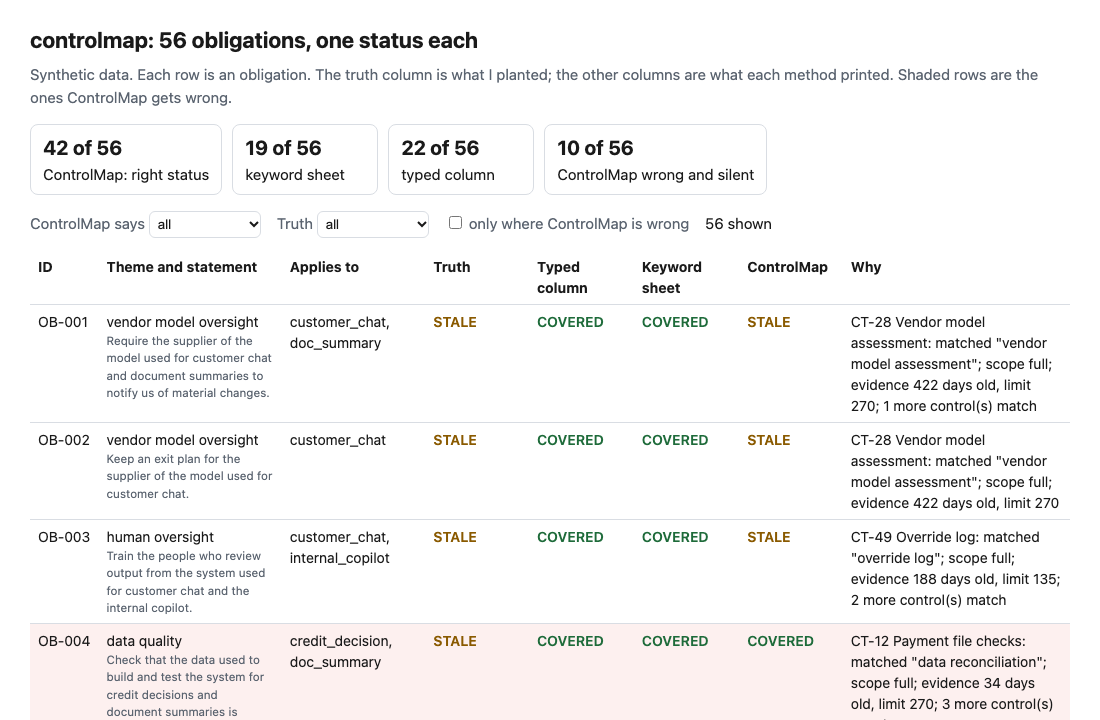
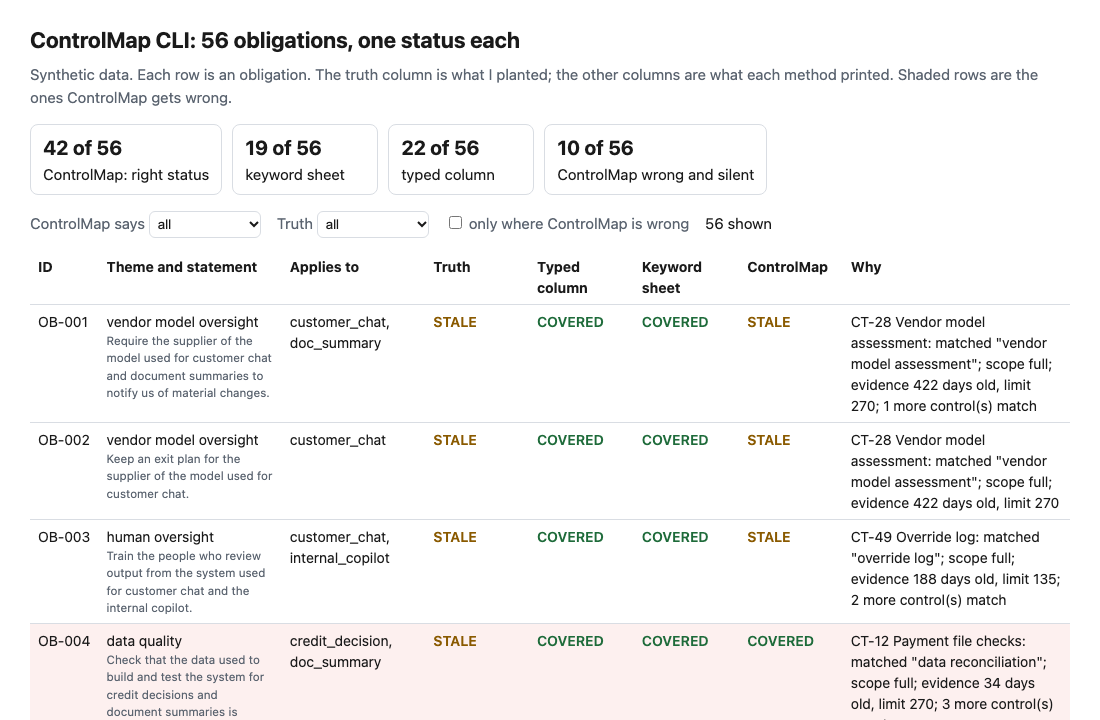
ControlMap CLI: title the project and its demo so it reads apart from project 16 ControlMap

Changed region(s): [[0.0309, 0.0306, 0.4636, 0.0917]]

diff --git a/48-controlmap/demo.html b/48-controlmap/demo.html
@@ -1,6 +1,6 @@
 <!doctype html>
 <html lang="en"><head><meta charset="utf-8"><meta name="viewport" content="width=device-width, initial-scale=1">
-<title>controlmap: 56 obligations, one status each</title>
+<title>ControlMap CLI: 56 obligations, one status each</title>
 <style>
 :root{--bg:#fff;--fg:#1a1a1a;--mut:#5b6470;--line:#d9dde3;--ok:#1e6b3a;--warn:#8a5a00;--bad:#b3261e;--info:#1d4f91;--wrong:#fdf0ef}
 @media (prefers-color-scheme: dark){:root{--bg:#14161a;--fg:#e8eaed;--mut:#9aa3ad;--line:#2c3138;--ok:#7fd49a;--warn:#ffc266;--bad:#ff8a80;--info:#8ab4f8;--wrong:#2a1b1a}}
@@ -17,7 +17,7 @@ tr.wrong td{background:var(--wrong)}
 .COVERED{color:var(--ok);font-weight:600}.STALE,.PARTIAL{color:var(--warn);font-weight:600}.UNCOVERED{color:var(--bad);font-weight:600}.UNMAPPED{color:var(--info);font-weight:600}
 .wrap{overflow-x:auto}td.id{white-space:nowrap}small{color:var(--mut);display:block}
 </style></head><body><main>
-<h1>controlmap: 56 obligations, one status each</h1>
+<h1>ControlMap CLI: 56 obligations, one status each</h1>
 <p class="s">Synthetic data. Each row is an obligation. The truth column is what I planted; the other columns are what each method printed. Shaded rows are the ones ControlMap gets wrong.</p>
 <div class="k" id="k"></div>
 <div><label>ControlMap says <select id="d"><option value="">all</option><option>COVERED</option><option>STALE</option><option>PARTIAL</option><option>UNCOVERED</option><option>UNMAPPED</option></select></label>

diff --git a/48-controlmap/src/_build_demo.py b/48-controlmap/src/_build_demo.py
@@ -12,7 +12,7 @@ with open(os.path.join(HERE, "out", "step_04_summary.json"), encoding="utf-8") a
 
 PAGE = """<!doctype html>
 <html lang="en"><head><meta charset="utf-8"><meta name="viewport" content="width=device-width, initial-scale=1">
-<title>controlmap: __N__ obligations, one status each</title>
+<title>ControlMap CLI: __N__ obligations, one status each</title>
 <style>
 :root{--bg:#fff;--fg:#1a1a1a;--mut:#5b6470;--line:#d9dde3;--ok:#1e6b3a;--warn:#8a5a00;--bad:#b3261e;--info:#1d4f91;--wrong:#fdf0ef}
 @media (prefers-color-scheme: dark){:root{--bg:#14161a;--fg:#e8eaed;--mut:#9aa3ad;--line:#2c3138;--ok:#7fd49a;--warn:#ffc266;--bad:#ff8a80;--info:#8ab4f8;--wrong:#2a1b1a}}
@@ -29,7 +29,7 @@ tr.wrong td{background:var(--wrong)}
 .COVERED{color:var(--ok);font-weight:600}.STALE,.PARTIAL{color:var(--warn);font-weight:600}.UNCOVERED{color:var(--bad);font-weight:600}.UNMAPPED{color:var(--info);font-weight:600}
 .wrap{overflow-x:auto}td.id{white-space:nowrap}small{color:var(--mut);display:block}
 </style></head><body><main>
-<h1>controlmap: __N__ obligations, one status each</h1>
+<h1>ControlMap CLI: __N__ obligations, one status each</h1>
 <p class="s">Synthetic data. Each row is an obligation. The truth column is what I planted; the other columns are what each method printed. Shaded rows are the ones ControlMap gets wrong.</p>
 <div class="k" id="k"></div>
 <div><label>ControlMap says <select id="d"><option value="">all</option><option>COVERED</option><option>STALE</option><option>PARTIAL</option><option>UNCOVERED</option><option>UNMAPPED</option></select></label>

diff --git a/48-controlmap/README.md b/48-controlmap/README.md
@@ -1,4 +1,4 @@
-# 🧭 controlmap: an obligation-to-control crosswalk that says when it cannot decide
+# 🧭 ControlMap CLI: an obligation-to-control crosswalk that says when it cannot decide
 
 **I wanted to know how far a short list of plain rules gets when someone has to say, for each AI obligation, which control meets it and whether the evidence is current, and which answers it still gets wrong without saying so. This is a command-line tool over an obligations CSV and a controls CSV: it matches on a phrase dictionary, ignores retired controls and denied phrases, checks scope and evidence age, and prints COVERED, STALE, PARTIAL, UNCOVERED or UNMAPPED for each obligation.** It extends [16 ControlMap](../16-controlmap-ai-obligation-crosswalk/), a four-step walkthrough with a Streamlit app, into a command-line tool you can point at your own files, and scores it against a hand-typed register column and a keyword sheet.
 

diff --git a/48-controlmap/ARCHITECTURE.md b/48-controlmap/ARCHITECTURE.md
@@ -1,4 +1,4 @@
-# Architecture: controlmap
+# Architecture: ControlMap CLI
 
 > **Status.** This is the design for a production shape. The repo implements the product mechanic as a prototype: a command, `src/controlmap.py`, that reads an obligations file, a controls file and a theme dictionary, matches on phrases, checks scope and evidence age and prints COVERED, STALE, PARTIAL, UNCOVERED or UNMAPPED for each obligation, run here over 56 synthetic obligations and 55 controls. Nothing below is claimed as deployed or load-tested. Where a figure is a design target, it says so.
 

diff --git a/48-controlmap/PRD.md b/48-controlmap/PRD.md
@@ -1,4 +1,4 @@
-# PRD: controlmap
+# PRD: ControlMap CLI
 
 **Author:** Vijay Saharan, Sr PM
 **Stage:** Portfolio prototype
